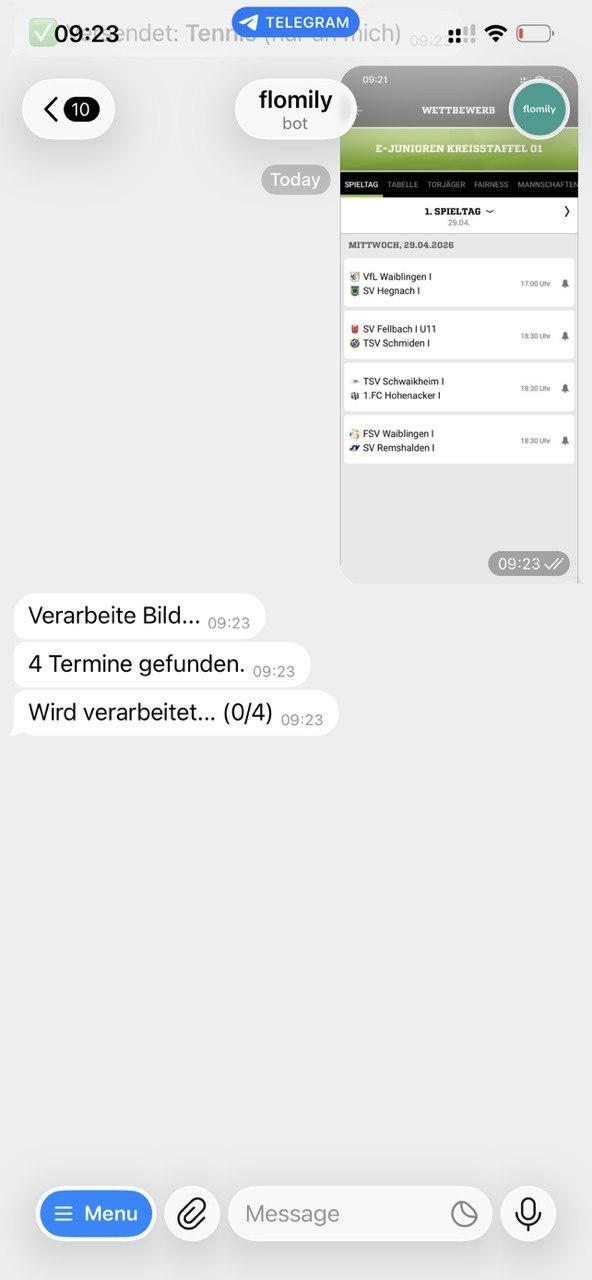
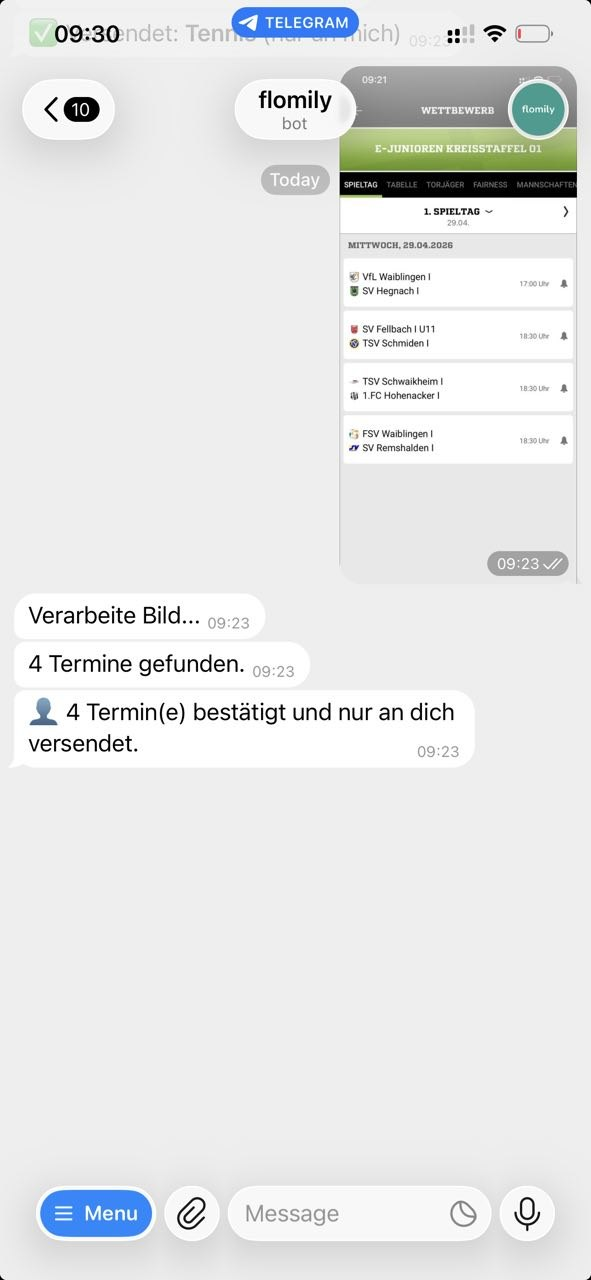
Swap showcase slides (Spielplan first), update Telegram screenshot

diff --git a/index.html b/index.html
@@ -352,25 +352,8 @@ document.getElementById('burger').addEventListener('click',function(){document.g
         <div class="showcase-carousel">
             <div class="showcase-track" id="showcase-track">
 
-                <!-- Slide 1: Veranstaltungstabelle -->
+                <!-- Slide 1: Spielplan -->
                 <div class="showcase-slide showcase-slide-active" id="showcase-slide-0">
-                    <h2>36 Termine. Ein Foto. 10 Sekunden.</h2>
-                    <p class="showcase-sub">Veranstaltungsplan, Spielplan, VHS-Programm — einfach abfotografieren. flomily erkennt jeden einzelnen Termin.</p>
-                    <div class="showcase-grid">
-                        <div class="showcase-item">
-                            <div class="showcase-label">📋 Veranstaltungsplan</div>
-                            <img src="img/veranstaltungstabelle-original.jpg" alt="Veranstaltungsplan mit 36 Terminen" loading="lazy">
-                        </div>
-                        <div class="showcase-item">
-                            <div class="showcase-label">✨ Von flomily erkannt</div>
-                            <img src="img/veranstaltungstabelle-telegram.jpg" alt="flomily erkennt 36 Termine aus dem Foto" loading="lazy">
-                        </div>
-                    </div>
-                    <p class="showcase-disclaimer">*Beispiel eines öffentlichen Veranstaltungsplans. Kein Bezug zu flomily — einfach ein zufälliger Fund, der zeigt, was möglich ist.</p>
-                </div>
-
-                <!-- Slide 2: Spielplan -->
-                <div class="showcase-slide" id="showcase-slide-1">
                     <h2>Spieltag? Screenshot. Fertig.</h2>
                     <p class="showcase-sub">Jugendspielplan, Kreisliga, Vereins-App — Screenshot an flomily schicken und alle Spiele landen im Kalender.</p>
                     <div class="showcase-grid">
@@ -384,6 +367,23 @@ document.getElementById('burger').addEventListener('click',function(){document.g
                         </div>
                     </div>
                     <p class="showcase-disclaimer">*Echtes Beispiel aus der fussball.de App. Kein Bezug zu den gezeigten Vereinen.</p>
+                </div>
+
+                <!-- Slide 2: Veranstaltungstabelle -->
+                <div class="showcase-slide" id="showcase-slide-1">
+                    <h2>36 Termine. Ein Foto. 10 Sekunden.</h2>
+                    <p class="showcase-sub">Veranstaltungsplan, Spielplan, VHS-Programm — einfach abfotografieren. flomily erkennt jeden einzelnen Termin.</p>
+                    <div class="showcase-grid">
+                        <div class="showcase-item">
+                            <div class="showcase-label">📋 Veranstaltungsplan</div>
+                            <img src="img/veranstaltungstabelle-original.jpg" alt="Veranstaltungsplan mit 36 Terminen" loading="lazy">
+                        </div>
+                        <div class="showcase-item">
+                            <div class="showcase-label">✨ Von flomily erkannt</div>
+                            <img src="img/veranstaltungstabelle-telegram.jpg" alt="flomily erkennt 36 Termine aus dem Foto" loading="lazy">
+                        </div>
+                    </div>
+                    <p class="showcase-disclaimer">*Beispiel eines öffentlichen Veranstaltungsplans. Kein Bezug zu flomily — einfach ein zufälliger Fund, der zeigt, was möglich ist.</p>
                 </div>
 
             </div>
